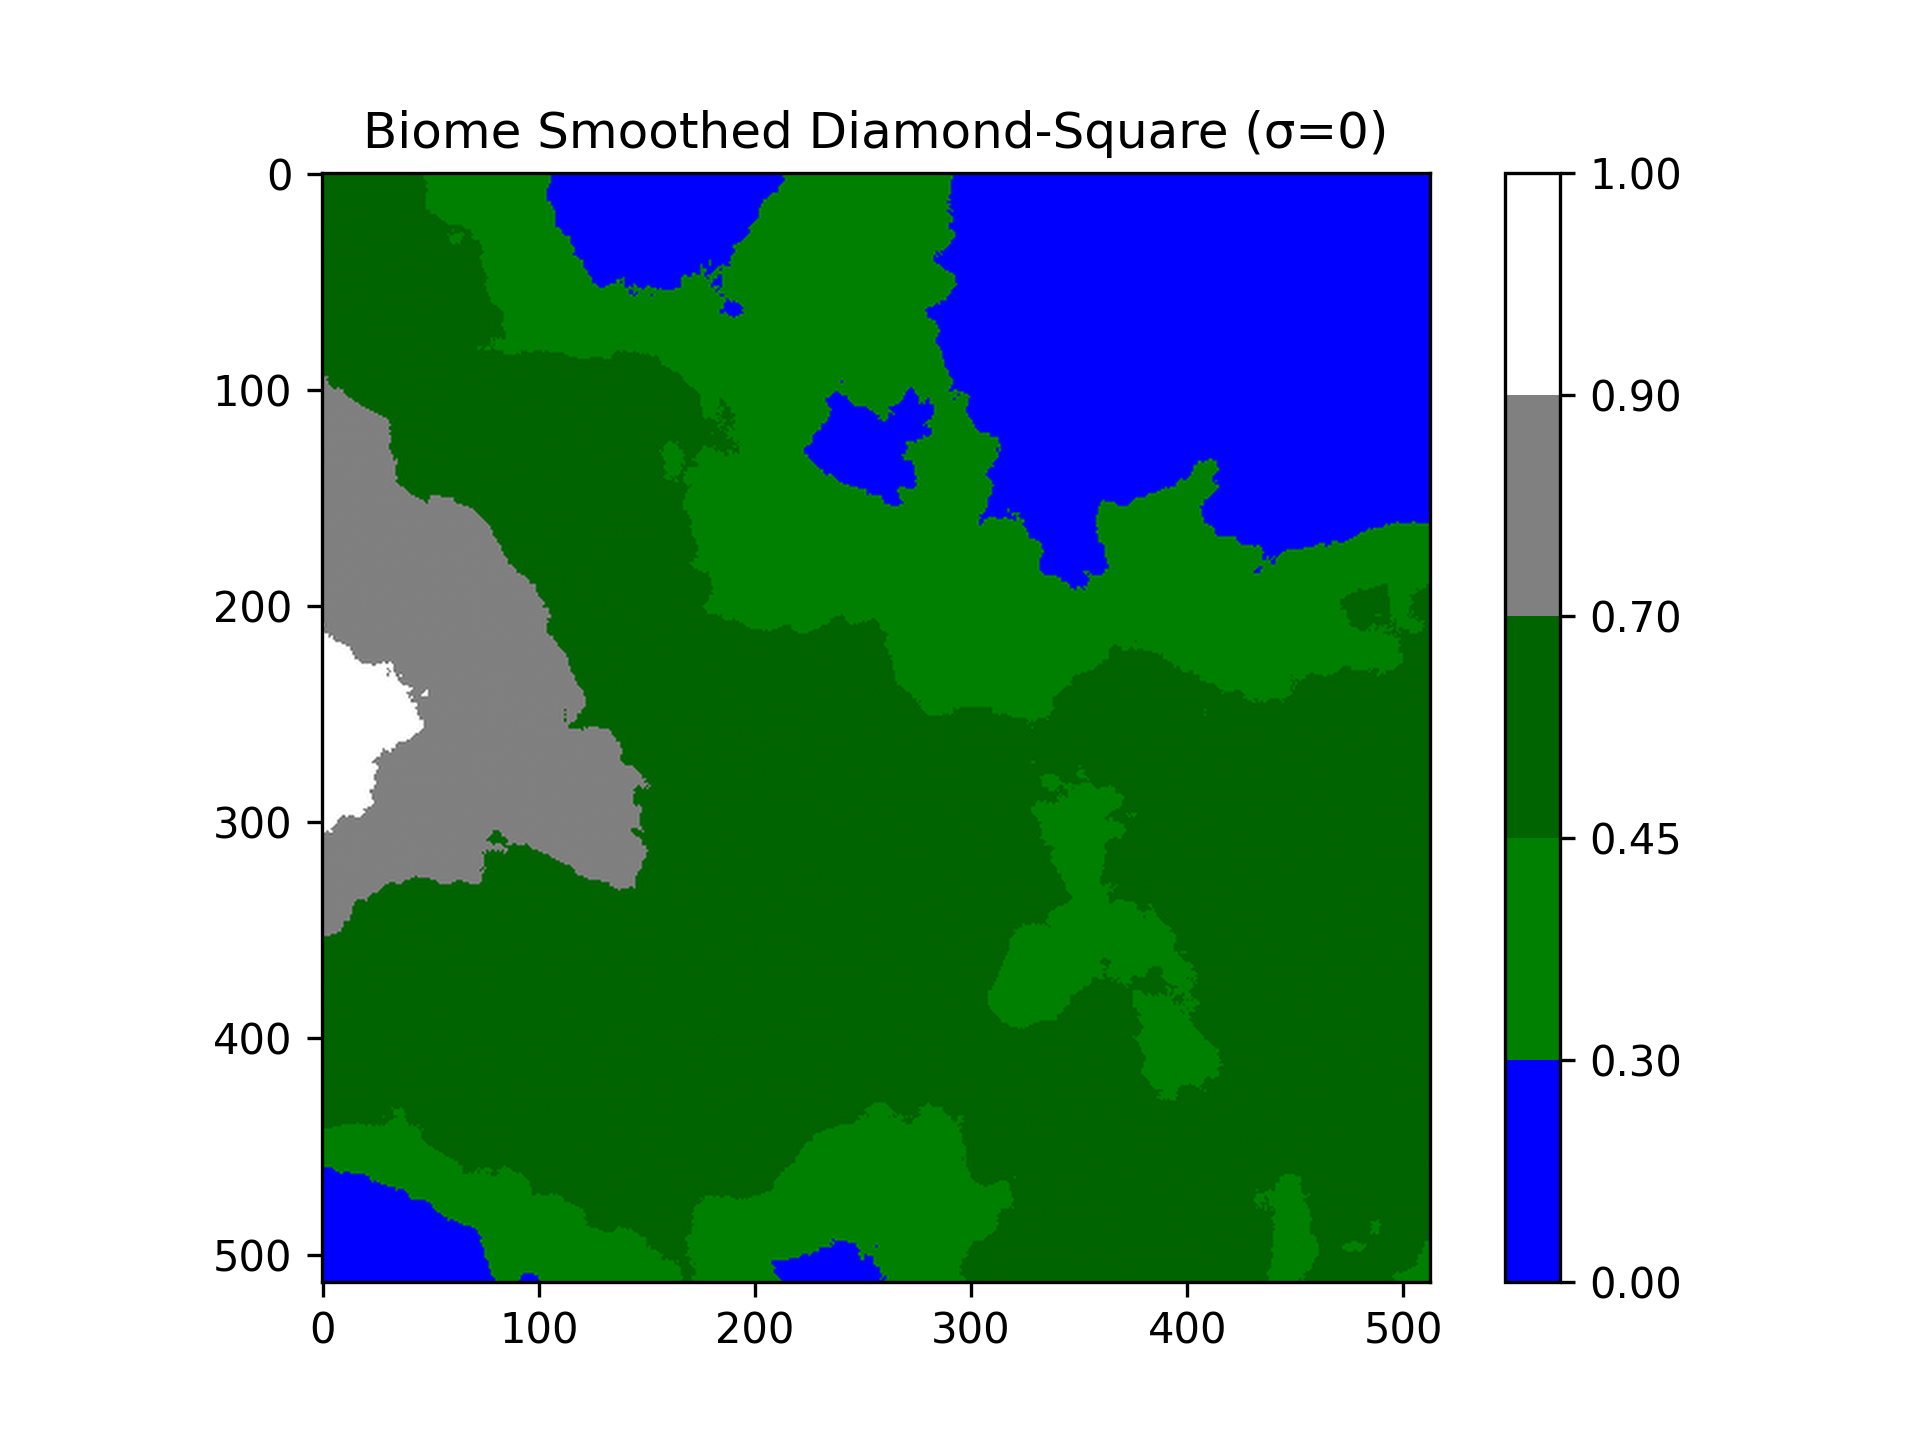
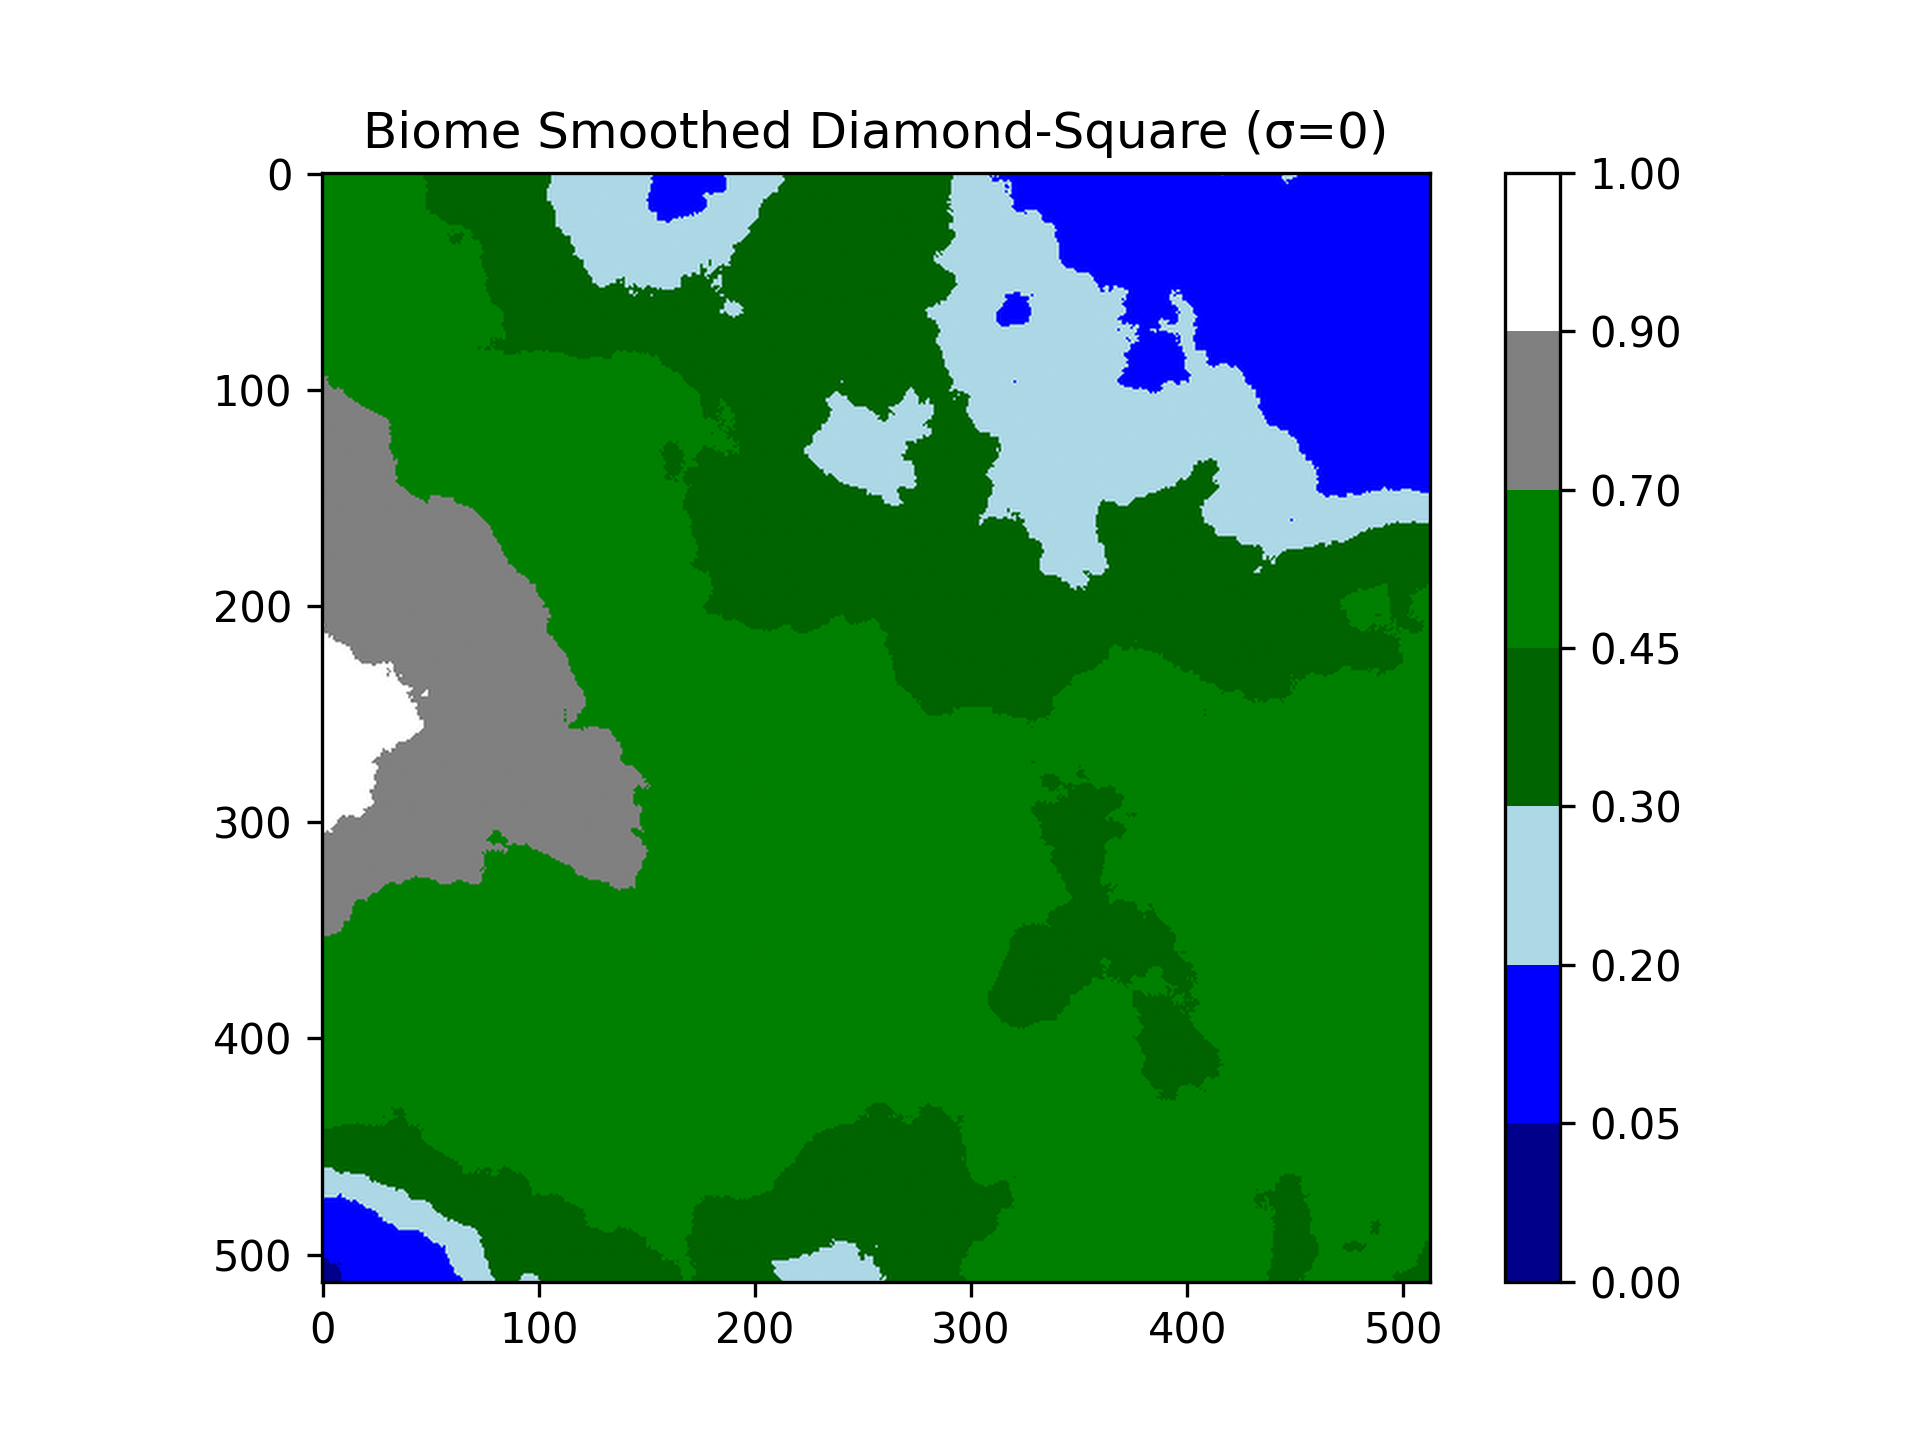
Finished diamond square

diff --git a/perlin_noise.py b/perlin_noise.py
@@ -573,30 +573,30 @@ if __name__ == "__main__":
     #                         iterNum=current_iteration
     #                     )
 
-    # params = [
-    #     #octaves, persistence, amplitude, lacunarity, scale
-    #     (1,         1.0,        0.25,        0.5,      500),
-    #     (1,         1.0,        0.50,        0.5,      500),
-    #     (1,         1.0,        0.75,        0.5,      500),
-    #     (1,         1.0,        1.00,        0.5,      500),
-    # ]
-    # for i, (octaves, persistence, amplitude, lacunarity, scale) in enumerate(params):
-    #     print(f"Iteration {i} of {len(params)} - Progress: {(i / len(params)) * 100:.0f}% complete")
-    #     print(f"Running fractal Perlin noise with octaves={octaves}, persistence={persistence}, amplitude={amplitude}, scale={scale}, lacunarity={lacunarity}")
-    #     run_perlin_noise_fractal(
-    #         size=grid_size,
-    #         octaves=octaves,
-    #         persistence=persistence,
-    #         amplitude=amplitude,
-    #         scale=scale,
-    #         lacunarity=lacunarity,
-    #         colors=land_type_colors,
-    #         bounds=land_type_boundaries,
-    #         show_plots=False,
-    #         offset_x=random.random() * 100,
-    #         offset_y=random.random() * 100,
-    #         iterNum=i
-    # )
+    params = [
+        #octaves, persistence, amplitude, lacunarity, scale
+        (1,         1.0,        0.25,        0.5,      500),
+        (1,         1.0,        0.50,        0.5,      500),
+        (1,         1.0,        0.75,        0.5,      500),
+        (1,         1.0,        1.00,        0.5,      500),
+    ]
+    for i, (octaves, persistence, amplitude, lacunarity, scale) in enumerate(params):
+        print(f"Iteration {i} of {len(params)} - Progress: {(i / len(params)) * 100:.0f}% complete")
+        print(f"Running fractal Perlin noise with octaves={octaves}, persistence={persistence}, amplitude={amplitude}, scale={scale}, lacunarity={lacunarity}")
+        run_perlin_noise_fractal(
+            size=grid_size,
+            octaves=octaves,
+            persistence=persistence,
+            amplitude=amplitude,
+            scale=scale,
+            lacunarity=lacunarity,
+            colors=land_type_colors,
+            bounds=land_type_boundaries,
+            show_plots=False,
+            offset_x=random.random() * 100,
+            offset_y=random.random() * 100,
+            iterNum=i
+    )
         
 
     end_time = time.time()  # End timing

diff --git a/diamond_square.py b/diamond_square.py
@@ -76,8 +76,8 @@ def ensure_output_folder():
 
 def plot_terrain(grid: np.ndarray, size: int, title: str, filename_prefix: str, show_plots: bool = True, apply_biomes: bool = True):
     if apply_biomes:
-        colors = ['blue', 'green', 'darkgreen', 'grey', 'white']
-        bounds = [0.0, 0.3, 0.45, 0.7, 0.9, 1.0]
+        colors = ['darkblue', "blue", "lightblue", 'darkgreen', 'green','grey', 'white']
+        bounds = [0, 0.05, 0.20, 0.30, 0.45, 0.70, 0.90, 1]
         cmap = ListedColormap(colors)
         norm = BoundaryNorm(bounds, cmap.N)
     else:
